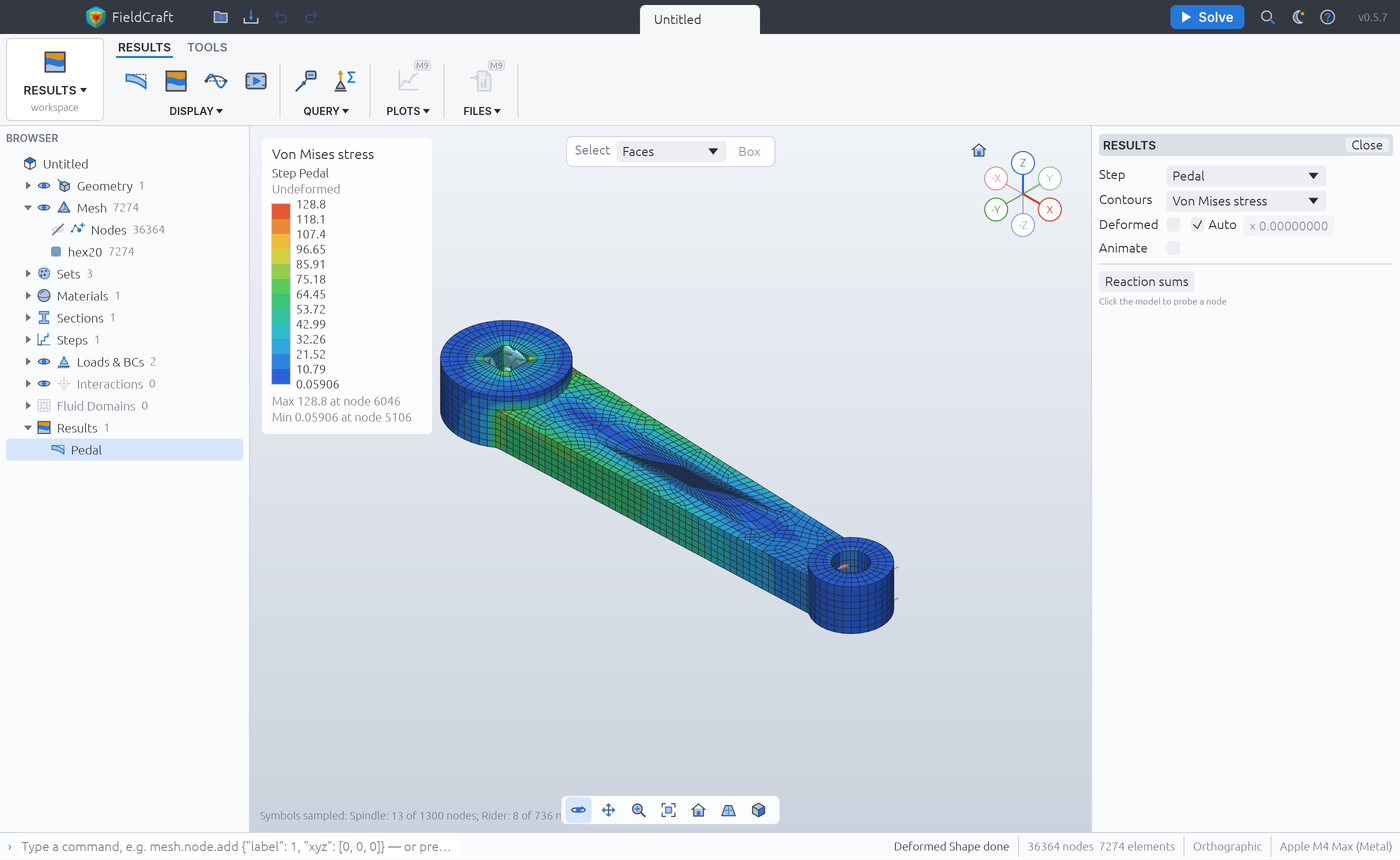
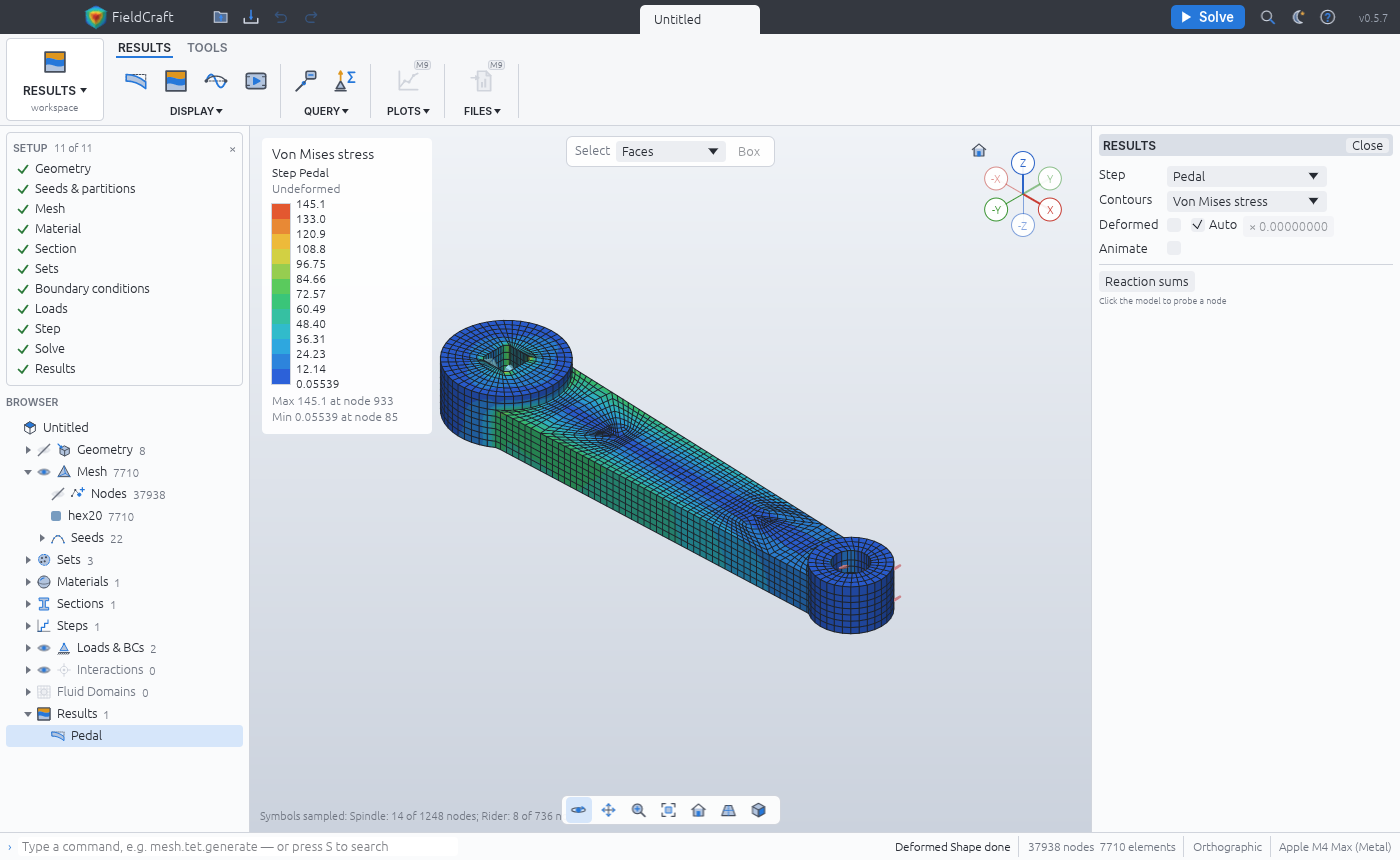
Samples: the crank arm meshed structured from a partitioned half
crank-arm (and crank-mirror, kept as the same model under the name of
its mirror workflow) now cut the crank on its symmetry plane and the
half into seven cells: across the arm at x = 30, 60, 110 and 148, and on
two diagonals radial to the pocket's corner fillets. Every cell's
cross-section maps (four-sided blocks, the half O-grids round the bores,
triangle primitives at the pocket's corners); exact edge seeds give each
cut the same divisions on both sides, so mesh.cells merges all six cuts
and mesh.mirror reflects the half: 7 710 hex20, scaled Jacobian min 0.37
(was 0.17, and 0.009 for the swept mirrored half), edge ratio at most
7.0. Root σxx ±62.43 MPa against M/Z 62.6 MPa, the spindle carries the
1500 N. The test asserts the quality floor. Gallery images regenerated.

Fixes #247

Claude-Session: https://claude.ai/code/session_01UhhZMBTviDQxZvwnyP89fo

diff --git a/crates/engine/src/sample.rs b/crates/engine/src/sample.rs
@@ -103,17 +103,17 @@ pub const SAMPLES: &[Sample] = &[
     Sample {
         name: "crank-mirror",
         label: "Mirrored Crank Arm",
-        about: "The crank arm cut on its symmetry plane, one half swept all-hex (hex20) and mirrored into one conforming mesh; loaded as crank-arm",
+        about: "The crank arm of crank-arm under the name of its mirror workflow: a partitioned half meshed structured all-hex (hex20) and mirrored into one conforming mesh",
         design: Some(CRANK_ARM),
-        prepare: Some(crank_mirror_prepare),
-        script: crank_mirror,
+        prepare: Some(crank_prepare),
+        script: crank_arm,
     },
     Sample {
         name: "crank-arm",
         label: "Bicycle Crank Arm",
-        about: "An aluminium bicycle crank swept all-hex (hex20): square bore fixed, a rider's weight on the pedal, von Mises",
+        about: "An aluminium bicycle crank meshed structured all-hex (hex20) from a partitioned half and its mirror image: square bore fixed, a rider's weight on the pedal, von Mises",
         design: Some(CRANK_ARM),
-        prepare: None,
+        prepare: Some(crank_prepare),
         script: crank_arm,
     },
 ];
@@ -497,35 +497,101 @@ pub const CRANK_ARM: &str = include_str!("../samples/crank-arm.json");
 /// The crank arm's pedal load (N): a standing rider's weight on one pedal.
 pub const PEDAL_LOAD: f64 = 1500.0;
 
-/// [`CRANK_ARM`] swept all-hex (hex20 of 3 mm), in 6061-T6 aluminium: the square bore's faces
-/// and corner fillets (set `spindle`) fixed, [`PEDAL_LOAD`] on the pedal hole (set `pedal`), in
-/// the crank's plane and across the arm (−y). Step `Pedal` (linear static). The faces are picked
-/// by their surfaces, not their names: the square bore's are the vertical planes 6.35 mm from the
-/// spindle axis and the R1.5 cylinders beside it, the pedal hole is the Ø14 cylinder on the
-/// pedal axis.
+/// The cells of the half `CrankArm/a` (y < 0) after [`crank_prepare`], from the spindle to the
+/// pedal: the spindle boss and the arm's root (`X30`), the pocket's spindle end below the
+/// diagonal `D1`, the arm between `D1` and `X60`, the middle of the arm (`X60` to `X110`), the arm
+/// between `X110` and `D2`, the pocket's pedal end beyond `D2`, and the pedal boss (`X148`).
+pub const CRANK_CELLS: [&str; 7] = [
+    "CrankArm/a/a",
+    "CrankArm/a/b/a",
+    "CrankArm/a/b/b/a",
+    "CrankArm/a/b/b/b/a",
+    "CrankArm/a/b/b/b/b/a",
+    "CrankArm/a/b/b/b/b/b/a",
+    "CrankArm/a/b/b/b/b/b/b",
+];
+
+/// The diagonals' angles from the arm's axis (degrees): `D1` through the centre of the pocket's
+/// spindle-end corner fillet (53, −2), `D2` through the pedal-end one (125, −2), each radial to
+/// its fillet so it meets the pocket wall square. Steeper than 45° from the pocket's floor edge
+/// (y = 0) on its inner side and shallower than 45° from the arm's edge on its outer side, so the
+/// pocket's middle keeps its corners there and the cells beyond it do not gain one.
+const CRANK_DIAGONALS: [f64; 2] = [40.0, 32.0];
+
+/// [`CRANK_ARM`] meshed structured all-hex (hex20 of 3 mm) from a partitioned half and mirrored,
+/// in 6061-T6 aluminium: the square bore's faces and corner fillets (set `spindle`) fixed,
+/// [`PEDAL_LOAD`] on the pedal hole (set `pedal`), in the crank's plane and across the arm (−y).
+/// Step `Pedal` (linear static). The faces are picked by their surfaces, not their names: the
+/// square bore's are the vertical planes 6.35 mm from the spindle axis and the R1.5 cylinders
+/// beside it, the pedal hole is the Ø14 cylinder on the pedal axis.
+///
+/// The mesh: [`crank_prepare`] cuts the crank on its symmetry plane and the half `CrankArm/a`
+/// into the seven [`CRANK_CELLS`], each a stack of extrusions whose cross-section splits into
+/// regions that map: four-sided regions (transfinite), the half ring round each bore, and the
+/// pocket's four corners cut off by the partitions, three-sided (the triangle primitive). Exact
+/// edge seeds give each cut the same divisions in the two cells it divides, so `mesh.cells`
+/// sweeps every cell (`extrude`) and merges them node for node; `mesh.mirror` reflects the half
+/// onto `CrankArm/b`, joined on the plane.
 pub fn crank_arm(bodies: &[Shape]) -> Value {
-    crank_model(bodies, vec![json!({"command": "mesh.hex.generate", "params": {"size": 3, "order": 2, "method": "extrude"}})])
+    let cells = CRANK_CELLS;
+    let mut mesh = crank_seeds();
+    mesh.push(json!({"command": "mesh.cells", "params": {"bodies": cells, "default": "extrude", "size": 3, "order": 2}}));
+    // Each cell's image is part of the uncut half.
+    let images: serde_json::Map<String, Value> = cells.iter().map(|c| (c.to_string(), json!("CrankArm/b"))).collect();
+    mesh.push(json!({"command": "mesh.mirror", "params": {"plane": "Sym", "bodies": cells, "as": images}}));
+    crank_model(bodies, mesh)
 }
 
-/// [`CRANK_ARM`] cut on its symmetry plane (`Sym`, y = 0; partition `Half`) by
-/// [`crank_mirror_prepare`]: the half `CrankArm/b` (y > 0) swept all-hex (hex20 of 3 mm) and
-/// mirrored onto `CrankArm/a`, one conforming mesh; then the model of [`crank_arm`].
-pub fn crank_mirror(bodies: &[Shape]) -> Value {
-    crank_model(
-        bodies,
-        vec![
-            json!({"command": "mesh.hex.generate", "params": {"body": "CrankArm/b", "size": 3, "order": 2, "method": "extrude"}}),
-            json!({"command": "mesh.mirror", "params": {"plane": "Sym", "bodies": ["CrankArm/b"]}}),
-        ],
-    )
+/// The edge seeds that make every cut's divisions alike on its two sides: each cut's line in
+/// the arm's cross-section (its bottom edge, z = 0) and, for the diagonals and the cuts across the
+/// pocket, its line on the pocket's floor (z = 8); and the 16 mm walls of the end cells on their
+/// cuts, in six layers as the pocket's floor level splits the cells between them (3 + 3). The
+/// counts are those the cells' mapped regions need: the cut `X30` faces the spindle boss's arc
+/// across the root (7), the arm between the diagonals is one block of five rows.
+fn crank_seeds() -> Vec<Value> {
+    let [c1, c2, c3, c4, c5, c6, c7] = CRANK_CELLS;
+    let cut = |name: &str, a: &str, b: &str, face: &str, count: u32| {
+        json!({"command": "mesh.seed.edge", "params": {"edges": [
+            {"body": a, "edge": format!("{face}|partition:{name}:a")},
+            {"body": b, "edge": format!("{face}|partition:{name}:b")},
+        ], "count": count}})
+    };
+    let mut seeds = vec![cut("X30", c1, c2, "F2:start", 7), cut("X148", c6, c7, "F2:start", 5)];
+    for (name, a, b) in [("D1", c2, c3), ("X60", c3, c4), ("X110", c4, c5), ("D2", c5, c6)] {
+        seeds.push(cut(name, a, b, "F2:start", 5));
+        seeds.push(cut(name, a, b, "F6:top", 3));
+    }
+    seeds.push(json!({"command": "mesh.seed.edge", "params": {"edges": [
+        {"body": c1, "edge": "F2:side:lo|partition:X30:a"},
+        {"body": c7, "edge": "F2:side:lo|partition:X148:b"},
+    ], "count": 6}}));
+    seeds
 }
 
-/// The crank arm's symmetry plane and the partition by it.
-fn crank_mirror_prepare() -> Value {
-    json!([
-        {"command": "geometry.datum", "params": {"name": "Sym", "by": {"type": "offset", "plane": "zx", "offset": 0}}},
-        {"command": "geometry.partition", "params": {"name": "Half", "datum": "Sym"}},
-    ])
+/// The crank arm's symmetry plane (`Sym`, y = 0) and the partition by it (`Half`), then the
+/// half `CrankArm/a` cut into [`CRANK_CELLS`]: across the arm at x = 30 (the root, beyond the
+/// spindle boss), 60 and 110 (the pocket's straight middle) and 148 (before the pedal boss), and
+/// on the diagonals of [`CRANK_DIAGONALS`]. Each cut names the one cell it divides.
+fn crank_prepare() -> Value {
+    let [d1, d2] = CRANK_DIAGONALS.map(f64::to_radians);
+    let across = |x: f64| json!({"type": "offset", "plane": "yz", "offset": x});
+    let cuts = [
+        ("X30", across(30.0), "CrankArm/a"),
+        ("D1", json!({"type": "point_normal", "point": [53, -2, 0], "normal": [d1.sin(), -d1.cos(), 0]}), "CrankArm/a/b"),
+        ("X60", across(60.0), "CrankArm/a/b/b"),
+        ("X110", across(110.0), "CrankArm/a/b/b/b"),
+        ("D2", json!({"type": "point_normal", "point": [125, -2, 0], "normal": [d2.sin(), d2.cos(), 0]}), "CrankArm/a/b/b/b/b"),
+        ("X148", across(148.0), "CrankArm/a/b/b/b/b/b"),
+    ];
+    let mut script = vec![
+        json!({"command": "geometry.datum", "params": {"name": "Sym", "by": {"type": "offset", "plane": "zx", "offset": 0}}}),
+        json!({"command": "geometry.partition", "params": {"name": "Half", "datum": "Sym"}}),
+    ];
+    for (name, by, body) in cuts {
+        script.push(json!({"command": "geometry.datum", "params": {"name": name, "by": by}}));
+        script.push(json!({"command": "geometry.partition", "params": {"name": name, "datum": name, "bodies": [body]}}));
+    }
+    Value::Array(script)
 }
 
 /// The crank's model after the `mesh` commands: material, the spindle fixed, the rider on the
@@ -793,18 +859,65 @@ mod tests {
         assert!(r["max_von_mises"]["value"].as_f64().unwrap() > 200.0, "{r}");
     }
 
-    /// The crank arm opens swept all-hex20 with every bore face found, and its root bends as a
-    /// beam: σxx on the arm's sides at x = 29 mm (35.6 mm wide, 16 thick, 141 mm from the pedal)
-    /// within 3 % of M/Z = 1500 · 141 / (16 · 35.6² / 6) = 62.6 MPa, the spindle carrying the
+    /// The crank opens as one conforming structured hex20 mesh: the
+    /// half's seven cells, every cut merged node for node (no ties), the half and its mirror
+    /// image alike and joined on the symmetry plane, the spindle and pedal faces found on both
+    /// halves (the image's faces carry the names of the half they are the image of), and the
+    /// quality floor: scaled Jacobian at least 0.3, edge ratio at most 10.
+    #[test]
+    fn the_crank_opens_as_one_structured_mesh_of_two_alike_halves() {
+        let (arm, mirror) = (find("crank-arm").unwrap(), find("crank-mirror").unwrap());
+        let prepared = |x: &Sample| x.prepare.map(|f| f());
+        assert!(
+            arm.design == mirror.design && prepared(arm) == prepared(mirror) && (arm.script)(&[]) == (mirror.script)(&[]),
+            "one model under two names"
+        );
+        {
+            let name = "crank-arm";
+            let mut s = open(name);
+            let bodies: Vec<String> = s.design.as_ref().unwrap().bodies.iter().map(|b| b.name.clone()).collect();
+            let mut cells: Vec<String> = CRANK_CELLS.iter().map(|c| c.to_string()).collect();
+            cells.push("CrankArm/b".into());
+            assert_eq!(bodies, cells);
+            assert!(s.model.ties().is_empty(), "every cut merged");
+            let elements = s.model.elements().values().filter(|e| e.kind == fieldcraft_model::ElementKind::Hex20).count();
+            assert_eq!(elements, s.model.elements().len());
+            let mut set = |name: &str, bodies: &[&str]| {
+                s.execute("model.set.create", &json!({"name": name, "geometry": bodies.iter().map(|b| json!({"body": b})).collect::<Vec<_>>()}))
+                    .unwrap();
+                s.model.resolve_set(name).unwrap()
+            };
+            let (a, b) = (set("half_a", &CRANK_CELLS), set("half_b", &["CrankArm/b"]));
+            assert_eq!(a.elements.len(), b.elements.len());
+            assert_eq!(a.elements.len() + b.elements.len(), elements);
+            assert_eq!(a.faces.len(), b.faces.len(), "the halves' skins are alike");
+            let shared = a.nodes.iter().filter(|n| b.nodes.binary_search(n).is_ok()).count();
+            assert!(shared > 100, "{shared}");
+            assert_eq!(a.nodes.len() + b.nodes.len() - shared, s.model.nodes().len());
+            let q = s.execute("mesh.quality", &json!({})).unwrap();
+            assert_eq!(q["valid"].as_u64().unwrap() as usize, elements, "{q}");
+            let metric = |m: &str, k: &str| q["metrics"][m][k].as_f64().unwrap();
+            assert!(metric("scaled_jacobian", "min") >= 0.3, "{q}");
+            assert!(metric("edge_ratio", "max") <= 10.0, "{q}");
+            let members = |set: &str| s.model.sets().get(set).map_or(Vec::new(), |x| x.geometry.iter().map(|g| g.body.clone()).collect::<Vec<_>>());
+            for set in ["spindle", "pedal"] {
+                let bodies = members(set);
+                assert!(bodies.iter().any(|b| b.starts_with("CrankArm/a/")) && bodies.iter().any(|b| b == "CrankArm/b"), "{set}: {bodies:?}");
+                assert!(!s.model.resolve_set(set).unwrap().faces.is_empty(), "{set}");
+            }
+            let faces = |set: &str| s.model.sets().get(set).map_or(0, |x| x.geometry.len());
+            assert_eq!((faces("spindle"), faces("pedal")), (10, 4), "{name}");
+        }
+    }
+
+    /// Solved, the crank's root bends as a beam: σxx on the arm's sides at x = 29 mm (35.6 mm
+    /// wide, 16 thick, 141 mm from the pedal) within 3 % of M/Z = 1500 · 141 / (16 · 35.6² / 6) =
+    /// 62.6 MPa, equal and opposite on the two mirror-image sides, and the spindle carries the
     /// whole load.
     #[test]
     #[ignore = "heavy: cargo xtask test --heavy (CI heavy job)"]
     fn the_crank_arm_root_bends_as_the_beam_formula_says() {
         let mut s = open("crank-arm");
-        let elements = s.model.elements().values().filter(|e| e.kind == fieldcraft_model::ElementKind::Hex20).count();
-        assert_eq!(elements, s.model.elements().len());
-        let faces = |set: &str| s.model.sets().get(set).map_or(0, |x| x.geometry.len());
-        assert_eq!((faces("spindle"), faces("pedal")), (8, 2));
         s.execute("solve.run", &json!({})).unwrap();
         let half_width: f64 = 19.0 - 7.0 * 29.0 / 170.0;
         let probe = s.execute("solve.probe", &json!({"step": "Pedal", "at": [[29.0, -half_width, 8.0], [29.0, half_width, 8.0]]})).unwrap();
@@ -813,6 +926,7 @@ mod tests {
         for (i, sign) in [(0, -1.0), (1, 1.0)] {
             assert!((sign * sxx(i) - hand).abs() < 0.03 * hand, "{} against {hand} MPa: {probe}", sxx(i));
         }
+        assert!((sxx(0) + sxx(1)).abs() < 0.01 * hand, "{probe}");
         let reaction = s.execute("results.reactions", &json!({"step": "Pedal", "sets": ["spindle"]})).unwrap();
         assert!((reaction["sets"][0]["force"][1].as_f64().unwrap() - PEDAL_LOAD).abs() < 1e-6, "{reaction}");
     }
@@ -824,67 +938,13 @@ mod tests {
         fieldcraft_mesh::quality::conformity(&nodes, elements, 1e-6).unwrap()
     }
 
-    /// The crank arm swept all-hex20 has no crack (#260): its free faces close up, no two nodes
-    /// coincide and every element edge has one mid-side node.
+    /// The crank arm's hex20 mesh has no crack (#260): its free faces close up across the cells
+    /// and the mirror plane, no two nodes coincide and every element edge has one mid-side node.
     #[test]
     fn the_crank_arm_hex20_mesh_is_conforming() {
         let s = open("crank-arm");
         let c = conformity(&s);
-        // The count differs between platforms (#115: 7274 on macOS, 7334 on Linux), so check
-        // that the mesh is all hex20 rather than its size.
-        assert!(s.model.elements().values().all(|e| e.kind == fieldcraft_model::ElementKind::Hex20));
         assert!(c.is_conforming(), "{:?} {:?} {:?}", c.open_edges.first(), c.coincident.first(), c.midside_mismatches.first());
-    }
-
-    /// The mirrored crank opens as one conforming all-hex20 mesh: its two halves alike, joined
-    /// on the symmetry plane, every element valid, and the spindle and pedal faces found on both
-    /// halves (the image's faces carry the names of the half they are the image of).
-    #[test]
-    fn the_mirrored_crank_opens_as_one_mesh_of_two_alike_halves() {
-        let mut s = open("crank-mirror");
-        let elements = s.model.elements().values().filter(|e| e.kind == fieldcraft_model::ElementKind::Hex20).count();
-        assert_eq!(elements, s.model.elements().len());
-        let mut half = |body: &str| {
-            let set = format!("half_{}", body.replace('/', "_"));
-            s.execute("model.set.create", &json!({"name": set, "geometry": [{"body": body}]})).unwrap();
-            s.model.resolve_set(&set).unwrap()
-        };
-        let (a, b) = (half("CrankArm/a"), half("CrankArm/b"));
-        assert_eq!(a.elements.len(), b.elements.len());
-        assert_eq!(a.elements.len() + b.elements.len(), elements);
-        assert_eq!(a.faces.len(), b.faces.len(), "the halves' skins are alike");
-        // Joined on the plane: nodes shared by both halves, none duplicated there.
-        let shared = a.nodes.iter().filter(|n| b.nodes.binary_search(n).is_ok()).count();
-        assert!(shared > 100, "{shared}");
-        assert_eq!(a.nodes.len() + b.nodes.len() - shared, s.model.nodes().len());
-        let q = s.execute("mesh.quality", &json!({})).unwrap();
-        assert_eq!(q["valid"].as_u64().unwrap() as usize, elements, "{q}");
-        let members = |set: &str| s.model.sets().get(set).map_or(Vec::new(), |x| x.geometry.iter().map(|g| g.body.clone()).collect::<Vec<_>>());
-        for set in ["spindle", "pedal"] {
-            let bodies = members(set);
-            assert!(bodies.iter().any(|b| b == "CrankArm/a") && bodies.iter().any(|b| b == "CrankArm/b"), "{set}: {bodies:?}");
-            assert!(!s.model.resolve_set(set).unwrap().faces.is_empty(), "{set}");
-        }
-    }
-
-    /// Solved, the mirrored crank bends as the swept whole one does (σxx at the root within 3 % of
-    /// M/Z) and the spindle carries the whole load.
-    #[test]
-    #[ignore = "heavy: cargo xtask test --heavy (CI heavy job)"]
-    fn the_mirrored_crank_bends_as_the_beam_formula_says() {
-        let mut s = open("crank-mirror");
-        s.execute("solve.run", &json!({})).unwrap();
-        let half_width: f64 = 19.0 - 7.0 * 29.0 / 170.0;
-        let probe = s.execute("solve.probe", &json!({"step": "Pedal", "at": [[29.0, -half_width, 8.0], [29.0, half_width, 8.0]]})).unwrap();
-        let sxx = |i: usize| probe["nodes"][i]["stress"][0].as_f64().unwrap();
-        let hand = PEDAL_LOAD * (170.0 - 29.0) / (16.0 * (2.0 * half_width).powi(2) / 6.0);
-        for (i, sign) in [(0, -1.0), (1, 1.0)] {
-            assert!((sign * sxx(i) - hand).abs() < 0.03 * hand, "{} against {hand} MPa: {probe}", sxx(i));
-        }
-        // Mirror images: the two sides' bending stresses are equal and opposite.
-        assert!((sxx(0) + sxx(1)).abs() < 0.01 * hand, "{probe}");
-        let reaction = s.execute("results.reactions", &json!({"step": "Pedal", "sets": ["spindle"]})).unwrap();
-        assert!((reaction["sets"][0]["force"][1].as_f64().unwrap() - PEDAL_LOAD).abs() < 1e-6, "{reaction}");
     }
 
     #[test]

diff --git a/ROADMAP.md b/ROADMAP.md
@@ -31,7 +31,7 @@ pressure) is a degree of freedom of the existing DOF framework, not a separate s
 | M2 Tet meshing and size field | Size field (global, curvature and proximity; edge seeds done: `mesh.seed.edge` on persistent design edge names (`<face>|<face>`) with a count or size, geometric bias and an exact, min or free constraint, shown as ticks and under Mesh › Seeds, honoured by the hex sweep, extrude, revolve, mapped, blocks and cells meshers through interval assignment (conflicting exact seeds named) and by the tet mesher, which divides the edge at the seed's nodes and grades its size field from them; per-face seeds to do; the `fieldcraft_mesh::size::SizeField` trait and edge-division helpers are in); Bowyer–Watson Delaunay (exact, symbolic perturbation, verified; `fieldcraft-mesh::delaunay`, done); robust CDT boundary recovery (Diazzi et al. 2023: implicit LNC Steiner points on segments, gift-wrapping facet recovery, inside/outside labelling, B-rep face tags on boundary tet faces, flip repair of rounding (§5.1) checked by the validity gate; `fieldcraft-mesh::cdt` and `mesh.tet.generate`, done: all 20 valid corpus parts); quality stage (done: `fieldcraft-mesh::tet` — curvature-graded size field, edge-collapse coarsening, constrained Delaunay refinement with boundary points on the B-rep faces and curves, ODT smoothing, Klingner–Shewchuk improvement, tet4 and tet10 with mid-side nodes on the B-rep, quality report; one validity criterion shared by the gate and both solvers; the filleted-bracket fillet stress converges, tests/oracle); mesh verify per set | in progress |
 | M3 First deck | Sets and surfaces bound to SolidCraft face, edge, vertex and body names, resolved after meshing; materials (isotropic and orthotropic elastic, density) with a unit-system label and consistency check; sections (solid, shell, beam profiles) assigned by set; element formulation per region mapped to each solver; BCs (fixed, displacement, symmetry); loads (force and moment on reference points, pressure, gravity); reference points with kinematic and distributing coupling; steps (linear static, frequency) with explicit per-step load and BC tables and output presets; `model.check` naming every missing or bad item; `model.*` and `mesh.tag` commands (model definition: done); writers for Abaqus input (done: `deck.write`), Nastran SOL 101/103 (done: `deck.write`) and LS-DYNA implicit (done); the `.fieldcraft` file (text definition, binary mesh, geometry references reopened on load, journal; atomic saves, autosave and recovery; undo/redo on the journal: done) | in progress |
 | M4 Own solver and first results | Element library per docs/elements.md (1D and 2D first); Linear static and modal solver (tet4/10, wedge6, hex8, hex20; sparse direct, Lanczos), verified against analytic solutions (solver: done — `fieldcraft-fem` kernels, `fieldcraft-solver` with nested dissection, sparse Cholesky and block Lanczos, `solve.static`/`solve.frequency`/`solve.probe`, patch, cantilever, Lamé, Kirsch and beam-frequency tests; reference points with kinematic and distributing couplings and moments by master–slave constraint elimination, verified by rigid motion, clamping, Saint-Venant tension, bending and tube torsion; 1D elements I: rod2/rod3 trusses, point masses, rotary inertia, springs and dashpots in both solvers and all three decks, verified by the method of joints, the three-bar truss, spring–mass, two-mass chain and torsional pendulum frequencies, and damped decay; 2D elements: plane stress, plane strain and axisymmetric tri3, tri6, quad4 (incompatible modes QM6), quad8 with two degrees of freedom per node, centrifugal loads, `mesh.planar` 2D meshes of polygons and planar faces, verified by patch tests, Kirsch, Lamé (plane strain and axisymmetric), rotating discs and cylinders, and a plane stress cantilever; deck mapping to Abaqus CPS/CPE/CAX, Nastran membranes, LS-DYNA ELFORM 12/13); shells and beams (done: quad4 MITC4 and tri3 MITC3 flat shells with a Hughes–Brezzi drilling rotation, two-node Timoshenko beams with profile properties and orientations, six degrees of freedom at shell and beam nodes shared with solids and trusses, section forces and surface stresses, verified by shell patch tests, Navier's plate, cantilever and portal-frame beams, and the Scordelis–Lo and pinched-cylinder benchmarks); results display (done: `results.*` commands, deformed shape to scale, banded contours of displacement, von Mises, principal and component stresses with a legend, mode shapes with their frequencies and animation, probing a node by clicking it, reaction force and moment sums per set, stale results marked after an edit; explicit steps: field frames by slider or animation with contours per frame, energy histories plotted) | started |
-| M5 Structured hex | 2D quad meshing of faces (`fieldcraft-mesh::quad`: transfinite mapped meshes, free all-quad meshes of polygons with holes on prescribed boundary nodes, exact planar quad validity, shared `SizeField` and even edge divisions; done for planar faces); mapped hex of six-sided regions (trivariate TFI, curved faces) and sweep meshing (multi-level extrusions with imprinted cross-sections, revolutions, one-to-one sweeps through linking faces; interval assignment, hex8/hex20 on the geometry, B-rep face tags, `mesh.hex.generate`/`sweep`/`mapped`: done, 16 of 21 corpus parts all-hex); conforming interfaces between cells (done: `mesh.hex.blocks` meshes a part split with SolidCraft's Split Body into mapped blocks as one conforming mesh — composite faces for seams and tangent faces, interval assignment over all cells, shared faces meshed once, grading off holes and fillets, free-internal-face check; the filleted bracket in 30 cells, hex20 within 0.1 % of a fine tet10 tip deflection); partitions inside FieldCraft (done: datum planes and axes, `geometry.partition` cuts the open design by a datum plane, kept in the model and replayed when the design opens, the two faces of each cut paired by name); cells meshed each with its own method into one mesh (done: `mesh.cells` — hex where a method fits, else tet; matching interfaces merged node for node, others, such as hex next to tet, tied by dual mortar, verified by a tied hex–tet bar in tension to 1e-6); meshing half a symmetric part and mirroring it (done: `mesh.mirror` reflects hex8/hex20/tet4/tet10/wedge6 across a datum plane, right-handed, nodes on the plane merged, tags carried to the image half; a mirrored half bar equals the whole bar's mesh and bending deflection to 1e-12; sample `crank-mirror`; or solving the half: `model.boundary_condition.symmetry` on a datum plane, a half bar with half the load bends as the whole to 1e-11); pyramid transitions; automatic decomposition into sweepable and mappable regions, proposed as SolidCraft splits | started |
+| M5 Structured hex | 2D quad meshing of faces (`fieldcraft-mesh::quad`: transfinite mapped meshes, free all-quad meshes of polygons with holes on prescribed boundary nodes, exact planar quad validity, shared `SizeField` and even edge divisions; done for planar faces); mapped hex of six-sided regions (trivariate TFI, curved faces) and sweep meshing (multi-level extrusions with imprinted cross-sections, revolutions, one-to-one sweeps through linking faces; interval assignment, hex8/hex20 on the geometry, B-rep face tags, `mesh.hex.generate`/`sweep`/`mapped`: done, 16 of 21 corpus parts all-hex); conforming interfaces between cells (done: `mesh.hex.blocks` meshes a part split with SolidCraft's Split Body into mapped blocks as one conforming mesh — composite faces for seams and tangent faces, interval assignment over all cells, shared faces meshed once, grading off holes and fillets, free-internal-face check; the filleted bracket in 30 cells, hex20 within 0.1 % of a fine tet10 tip deflection); partitions inside FieldCraft (done: datum planes and axes, `geometry.partition` cuts the open design by a datum plane, kept in the model and replayed when the design opens, the two faces of each cut paired by name); cells meshed each with its own method into one mesh (done: `mesh.cells` — hex where a method fits, else tet; matching interfaces merged node for node, others, such as hex next to tet, tied by dual mortar, verified by a tied hex–tet bar in tension to 1e-6); meshing half a symmetric part and mirroring it (done: `mesh.mirror` reflects hex8/hex20/tet4/tet10/wedge6 across a datum plane, right-handed, nodes on the plane merged, tags carried to the image half; a mirrored half bar equals the whole bar's mesh and bending deflection to 1e-12; samples `crank-arm` and `crank-mirror`: the half cut into seven cells, each swept structured, seeded to merge, and mirrored, scaled Jacobian ≥ 0.37; or solving the half: `model.boundary_condition.symmetry` on a datum plane, a half bar with half the load bends as the whole to 1e-11); three-sided sweep regions mapped as triangle primitives (done: midpoint subdivision, dominance constraints in interval assignment); pyramid transitions; automatic decomposition into sweepable and mappable regions, proposed as SolidCraft splits | started |
 | M6 Automatic hex | Octree/grid all-hex for any part (first version: done — `fieldcraft-mesh::octree`, `mesh.hex.octree`: 3-refinement grid with conforming templates refined by curvature, thickness and narrow faces, a core cleared to a manifold boundary, feature map onto it, padding and a pillow per patch capturing every sharp curve, foldover-free fitting, certified validity, B-rep face tags; the corpus hex column and the filleted-bracket oracle case; next: transitions for concave refined regions so thin and curved parts stop over-refining); hex-dominant by tet recombination; polycube for blocky parts; layers through thin walls; mesh editing and orphan-mesh import | started |
 | M7 Assemblies, contact and friction | Needs M15. Part instances from SolidCraft occurrences; tie between non-matching meshes (mortar: done — `interaction.tie`, dual mortar constraints in the implicit analyses, Abaqus `*TIE` and LS-DYNA tied contact, the tie patch test); implicit contact: surface-to-surface mortar and node-to-surface, penalty and augmented Lagrange, self-contact, automatic pair detection (mortar contact pairs with Coulomb friction in nonlinear static steps: done — segment-to-segment mortar with the consistent tangent by automatic differentiation of the segmentation, augmented Lagrangian with Uzawa updates to a gap tolerance, semismooth active set with a chattering cutback, small sliding without nonlinear geometry and finite sliding with it, overclosure adjusted or refused, Coulomb friction (stick/slip return map, static and kinetic coefficients, symmetrised tangent), pressure, gap, status, shear and slip output; verified by the contact patch test, Hertz cylinder and sphere, Newton's quadratic rate and sliding blocks; the linear analyses refuse contact by name); friction: Coulomb with stick–slip, static/kinetic, anisotropic, pressure-, rate- and temperature-dependent coefficients; contact output (pressure, slip, status); thermal contact conductance and frictional heating; wear (Archard); bolt pretension, connectors with behaviour (elastic, damped, stops, locks); amplitudes, multiple steps, restart; nonlinear steps in all three decks. Verified by Hertz (sphere and cylinder), the Cattaneo–Mindlin partial-slip problem, the sliding block, NAFEMS contact benchmarks | started |
 | M8 Materials, explicit, shells, composites | Plasticity, hyperelasticity, damage data per solver; explicit dynamics decks (Abaqus/Explicit, LS-DYNA); midsurface shells; composite layups and material orientations, continuum shells on swept hex; hybrid (mixed u–p) hex8/hex20/tet10 for nearly incompressible materials (done); heat transfer (solids done: steady and θ-method transient conduction with flux, convection and sources, thermal strain in static steps (solids and 2D) and explicit dynamics (with plasticity), coupled temperature–displacement, `solve.heat`; deck output, 2D/shell/beam conduction planned) | started |

diff --git a/docs/examples.md b/docs/examples.md
@@ -114,42 +114,52 @@ clamp carries the whole 1 kN.
 
 ## Mirrored crank arm (`crank-mirror`)
 
-![Von Mises stress on the mirrored crank arm: one swept half and its mirror image, one mesh](media/examples/crank-mirror.png)
+![Von Mises stress on the crank arm from below: the pocket ringed by mapped rows, the half and its mirror image one mesh](media/examples/crank-mirror.png)
 
-The crank arm of `crank-arm`, built from a half. A datum plane on its symmetry plane (`Sym`,
-y = 0) partitions it (`Half`) into `CrankArm/a` and `CrankArm/b`; the half `CrankArm/b` is swept
-all-hex (hex20 of 3 mm, 3 330 elements) and `mesh.mirror` reflects it onto `CrankArm/a`, joined
-on the plane: 6 660 hex20 elements, 32 933 nodes, all valid (scaled Jacobian min 0.009, mean 0.91).
-The image's faces carry `CrankArm/a`'s names, so the sets pick the square bore and the pedal hole
-on both halves. Material, supports and load as `crank-arm`.
+The model of `crank-arm` under the name of its mirror workflow (the sample kept so scripts and
+links made with it still open): seen from below, where the pocket is. How the half is cut,
+meshed and mirrored is told under `crank-arm`.
 
-**Look at:** the two halves' meshes, mirror images of each other across the arm's middle (Mesh
-workspace), and the datum plane `Sym` before solving.
+**Look at:** the pocket from below: straight mapped rows along its sides and floor, and at each
+end its corner fillets cut off by the diagonal partitions into three-sided triangle primitives;
+the two halves, mirror images across the arm's middle.
 
-**Check:** σxx on the arm's sides at x = 29 mm is −62.43 and +62.43 MPa, equal and opposite as
-the halves are, against M/Z = 62.5 MPa (0.2 %); the pedal bore moves 0.75 mm down, as on the whole
-swept crank; the spindle carries the whole 1500 N.
+**Check:** as `crank-arm`.
 
 ## Bicycle crank arm (`crank-arm`)
 
-![Von Mises stress on the all-hex crank arm, the arm root and the square bore carrying the most](media/examples/crank-arm.png)
+![Von Mises stress on the structured all-hex crank arm, the arm root and the square bore carrying the most](media/examples/crank-arm.png)
 
 A 170 mm aluminium crank built in SolidCraft (`crates/engine/samples/crank-arm.json`): a 16 mm
 arm tapering from 38 to 24 mm, root arcs into a Ø46 × 22 spindle boss with a 12.7 mm square bore
 (R1.5 corners) and a Ø30 × 20 pedal boss with a Ø14 hole, and an 82 × 14 × 8 pocket in its back
-(R5 corners). It is a stack of extrusions along z, so `mesh.hex.generate` sweeps it all-hex:
-7 274 hex20 elements of 3 mm, all valid, scaled Jacobian min 0.17, mean 0.83. To keep it
-sweepable the hex variant leaves out the pocket's floor fillet and the bosses' 1.5 mm chamfers,
-and its root arcs meet the bosses about 20° off tangent (a tangent meeting leaves a zero-angle
-cusp on the arm's top face, where any hex is degenerate). 6061-T6 (E = 68 900 MPa, ν = 0.33); the
-square bore's faces fixed, 1500 N on the pedal hole in the crank's plane, across the arm (−y).
-Linear static: about 4 s to open and 7 s to solve.
+(R5 corners). It is a stack of extrusions along z, so it sweeps all-hex. To keep it sweepable the
+hex variant leaves out the pocket's floor fillet and the bosses' 1.5 mm chamfers, and its root
+arcs meet the bosses about 20° off tangent (a tangent meeting leaves a zero-angle cusp on the
+arm's top face, where any hex is degenerate). 6061-T6 (E = 68 900 MPa, ν = 0.33); the square
+bore's faces fixed, 1500 N on the pedal hole in the crank's plane, across the arm (−y). Linear
+static: about 5 s to open and 7 s to solve.
 
-**Look at:** the swept mesh (Prepare ▸ Mesh), eight layers through the arm, and the von Mises
-contours: the bending stress grows along the arm toward the root; the peak, 129 MPa, sits at a
-square-bore corner where the rigid clamp meets the free face, a support singularity.
+The mesh is built as an analyst builds a structured one. A datum plane on the symmetry plane
+(`Sym`, y = 0) partitions the crank (`Half`); the half `CrankArm/a` is cut into seven cells:
+across the arm at x = 30 (the root, beyond the spindle boss), 60 and 110 (the pocket's straight
+middle) and 148 (before the pedal boss), and on two diagonals (`D1`, `D2`) through the centres
+of the pocket's corner fillets, radial to them so they meet the pocket wall square. Every
+cell's cross-section then splits into regions that map: the half ring round each bore (an
+O-grid), four-sided blocks (transfinite), and the pocket's four corners, three-sided, as
+triangle primitives. Exact edge seeds (`mesh.seed.edge`) give every cut the same divisions on
+its two sides, so `mesh.cells` sweeps each cell (`extrude`, hex20 of 3 mm) and merges all six
+cuts node for node, and `mesh.mirror` reflects the half onto `CrankArm/b`: 7 710 hex20
+elements, 37 938 nodes, all valid, scaled Jacobian min 0.37, mean 0.92, edge ratio at most 7.0
+(the swept crank before: min 0.17, its free-paved middle at the pocket the worst).
 
-**Check:** σxx on the arm's sides at x = 29 mm is ±62.4 MPa against the beam formula
+**Look at:** the mesh (Prepare ▸ Mesh): rows running straight along the arm, the O-grids round
+the bores, eight layers through the arm, and the von Mises contours: the bending stress grows
+along the arm toward the root; the peak, 145 MPa, sits at a square-bore corner where the rigid
+clamp meets the free face, a support singularity.
+
+**Check:** σxx on the arm's sides at x = 29 mm is −62.43 and +62.43 MPa, equal and opposite as
+the mirror-image halves are, against the beam formula
 M/Z = 1500 · 141 / (16 · 35.6² / 6) = 62.6 MPa (0.3 %); a 41 815-element tet10 solution of the
 full part gives 62.3 MPa. The pedal bore moves 0.75 mm down (tet10: 0.70–0.75 mm; Euler–Bernoulli
 with a rigid clamp: 0.58 mm, without shear or the boss's compliance), and the spindle carries the

diff --git a/README.md b/README.md
@@ -106,7 +106,7 @@ against a closed form or a reference solution ([docs/examples.md](docs/examples.
 </tr>
 <tr>
 <td width="33%" valign="top"><img src="docs/media/examples/bracket-hex.png" alt="Hex-meshed bracket" width="100%"><br><b>Hex-meshed bracket</b> (<code>bracket-hex</code>): the bracket split into 30 cells, meshed all-hex (hex20), von Mises</td>
-<td width="33%" valign="top"><img src="docs/media/examples/crank-arm.png" alt="Bicycle crank arm" width="100%"><br><b>Bicycle crank arm</b> (<code>crank-arm</code>): an aluminium crank swept all-hex (hex20), a rider's weight on the pedal; root bending within 0.3 % of M/Z</td>
+<td width="33%" valign="top"><img src="docs/media/examples/crank-arm.png" alt="Bicycle crank arm" width="100%"><br><b>Bicycle crank arm</b> (<code>crank-arm</code>): an aluminium crank meshed structured all-hex (hex20) from a partitioned half and its mirror image, a rider's weight on the pedal; root bending within 0.3 % of M/Z</td>
 <td width="33%" valign="top"><i>No picture yet: the viewport does not draw flow results (M12).</i><br><b>Flow past a bracket</b> (<code>flow-past</code>): air past an L-bracket on the floor; lattice Boltzmann flow, the drag and the force on each face</td>
 </tr>
 </table>
